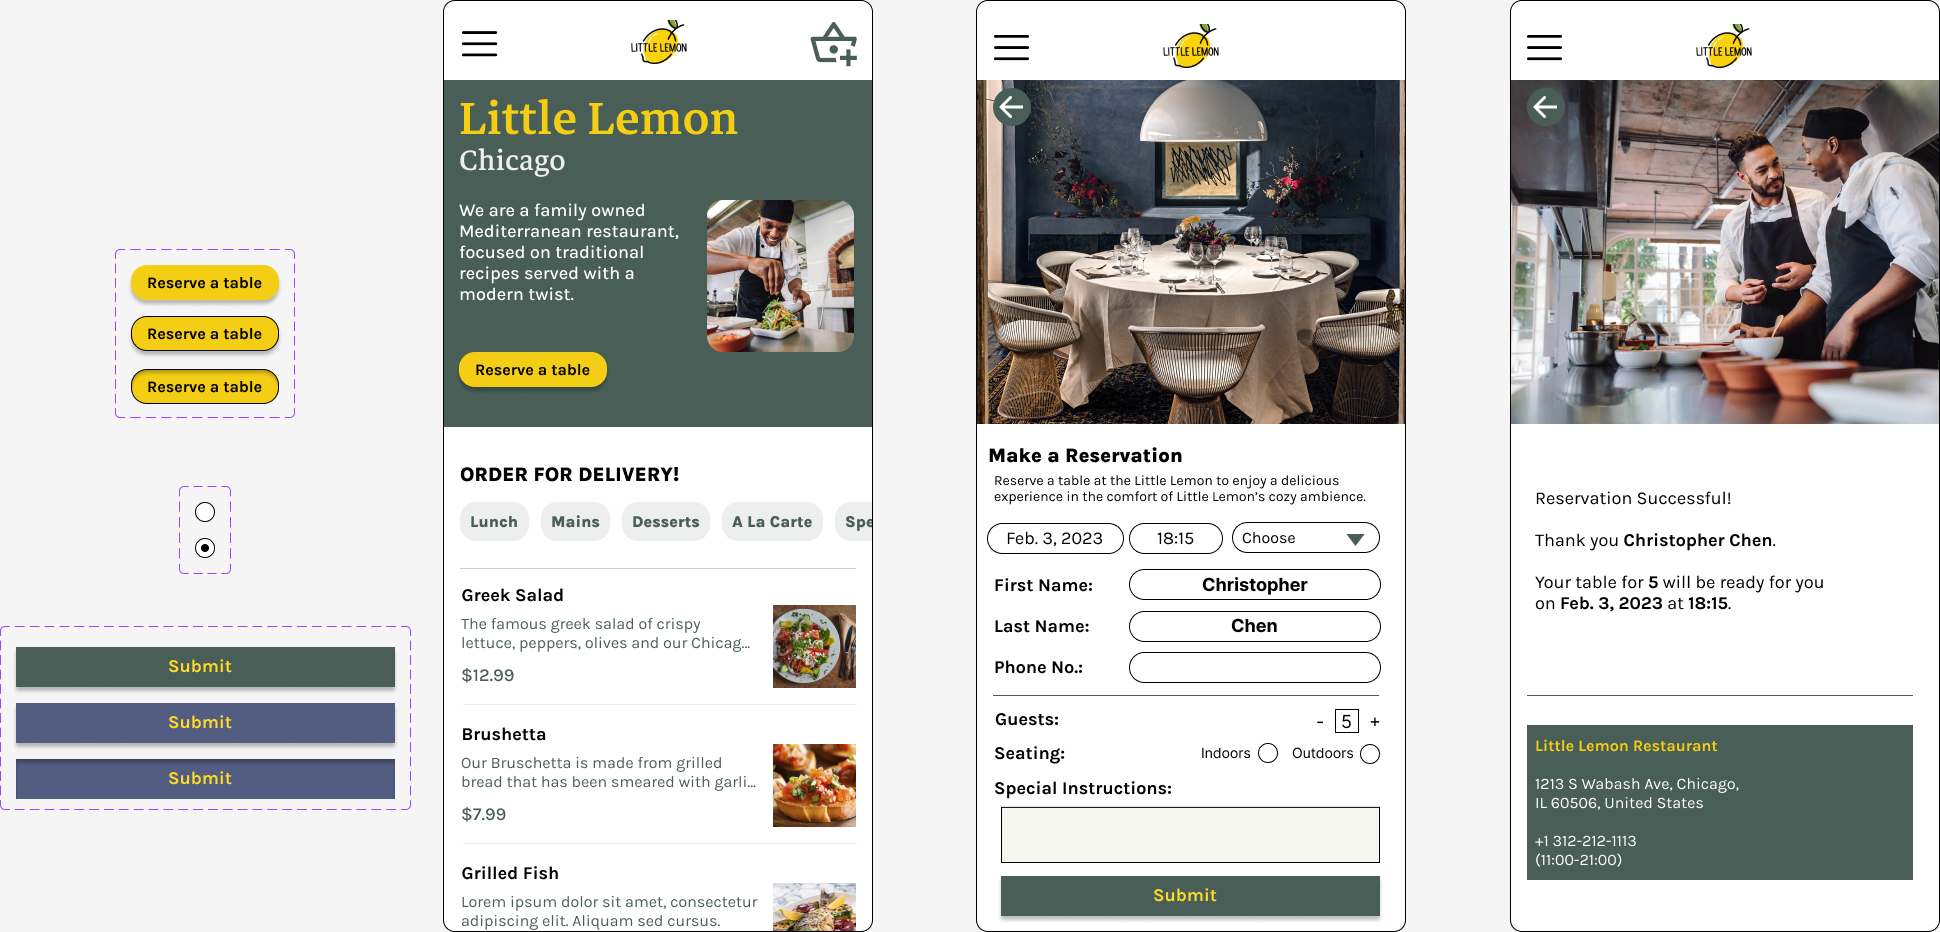
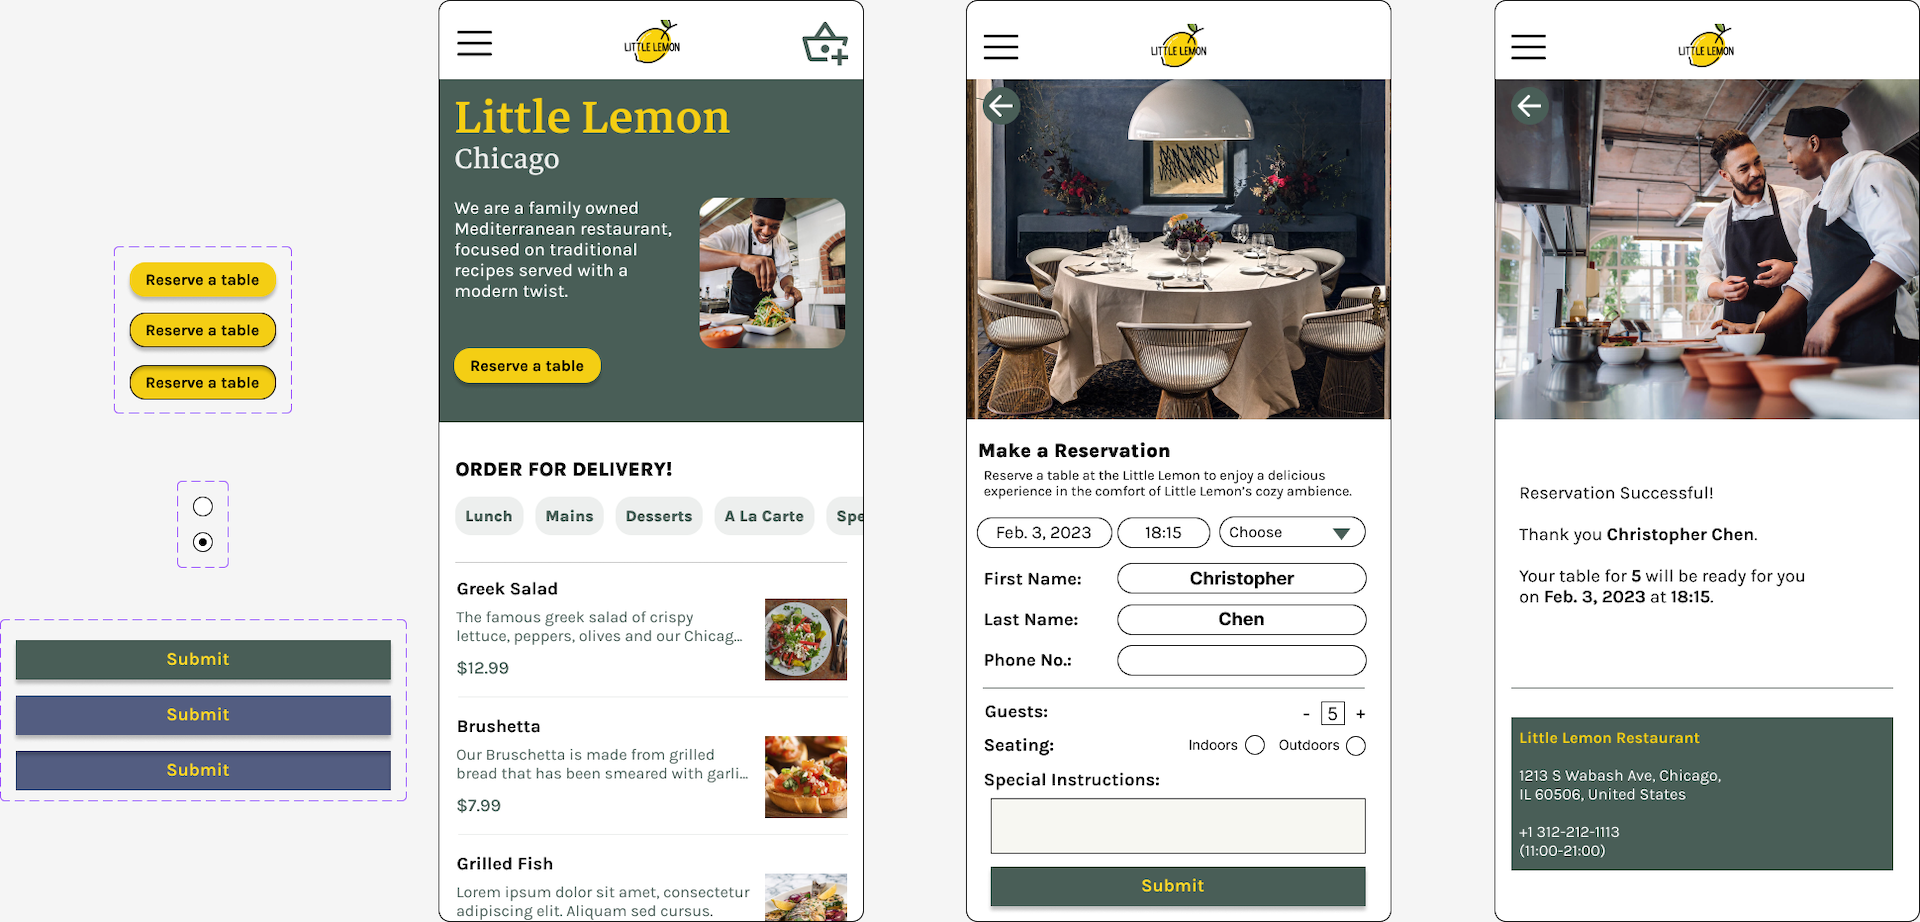
Added new project and downsized images

diff --git a/projects.html b/projects.html
@@ -78,10 +78,22 @@
   <section>
     <div class="container text-center col-xxl-8 px-5 py-4">
         <h2 class="pb-5">Projects</h2>
+
         <div class="py-3 my-3">
           <p class="number">01</p>
-          <p class="lead sub-heading"><strong>Restaurant website</strong></p>
-          <p class="small-text my-2">Front-end for restaurant with reserve-a-table feature, developed using React.js. Uses call-to-action button in the hero section to re-direct users for accessing the table-booking feature.</p>
+          <p class="lead sub-heading"><strong>Beats DIY</strong></p>
+          <p class="small-text my-2">Create your own groovy beats with this retro-style percussion instruments simulator. Click or press the buttons to generate their corresponding sounds. Play with your friends and be responsible for separate instruments.</p>
+          <div class="project-image pt-5">
+            <img src="./assets/images/beats.png" class="d-block mx-lg-auto img-fluid" alt="homepage for beat-creating website" width="600" loading="lazy">
+          </div>
+          <div class="centered-box my-5">
+            <a class="projects-text" href="https://kwisschen.github.io/beats">VIEW</a>
+          </div>
+        </div>
+        <div class="py-3 my-3">
+          <p class="number">02</p>
+          <p class="lead sub-heading"><strong>Little Lemon Restaurant</strong></p>
+          <p class="small-text my-2">Front-end for ficticious restaurant with reserve-a-table feature, developed using React.js. Uses call-to-action button in the hero section to re-direct users for accessing the table-booking feature.</p>
           <div class="project-image pt-5">
             <img src="./assets/images/lemon-home.png" class="d-block mx-lg-auto img-fluid" alt="homepage of restaurant" width="400" loading="lazy">
           </div>
@@ -90,9 +102,9 @@
           </div>
         </div>
         <div class="py-3 my-3">
-          <p class="number">02</p>
-          <p class="lead sub-heading"><strong>Mobile prototype for restaurant</strong></p>
-          <p class="small-text my-2">Prototype for restaurant app with interactions for the reserve-a-table feature, designed using Figma. Achieved after creating user personas, journey maps, and wireframes for the app.</p>
+          <p class="number">03</p>
+          <p class="lead sub-heading"><strong>Mobile prototype for Little Lemon</strong></p>
+          <p class="small-text my-2">Figma prototype for restaurant app with interactions for the reserve-a-table feature. Achieved after creating user personas, journey maps, and wireframes for the app.</p>
           <div class="project-image pt-5 mx-auto">
             <img src="./assets/images/lemon-prototype.png" class="d-block mx-lg-auto img-fluid" alt="figma prototype of restaurant" width="600" loading="lazy">
           </div>
@@ -101,20 +113,9 @@
           </div>
         </div>
         <div class="py-3 my-3">
-          <p class="number">03</p>
-          <p class="lead sub-heading"><strong>App landing page</strong></p>
-          <p class="small-text my-2">Front-end for match-making app which aims to help connect stray or unwanted cats with new owners, styled using Bootstrap. Adopts Tinder-themed gradient animation in header and footer.</p>
-          <div class="project-image pt-5">
-            <img src="./assets/images/cuddlepaws.png" class="d-block mx-lg-auto img-fluid" alt="landing page of app" width="400" loading="lazy">
-          </div>
-          <div class="centered-box my-5">
-            <a class="projects-text" href="https://kwisschen.github.io/cuddlepaws">VIEW</a>
-          </div>
-        </div>
-        <div class="py-3 my-3">
           <p class="number">04</p>
-          <p class="lead sub-heading"><strong>Auction website <small>(front-end in progress)</small></strong></p>
-          <p class="small-text my-2">Full-stack application for auction website, developed using Django. Current functions include user registration, logging in and out, following and unfollowing influencers, creating and closing auctions, filtering by category, placing bids, and leaving comments under each listing.</p>
+          <p class="lead sub-heading"><strong>Power Hour <small>(front-end in progress)</small></strong></p>
+          <p class="small-text my-2">Full-stack application for auction website, developed using Django. Currently features user registration, logging in and out, following and unfollowing influencers, creating and closing auctions, filtering by category, placing bids, and leaving comments under each listing.</p>
           <div class="project-image pt-5">
             <img src="./assets/images/power-hour-listing.png" class="d-block mx-lg-auto img-fluid" alt="landing page of app" width="500" loading="lazy">
           </div>
@@ -124,13 +125,24 @@
         </div>
         <div class="py-3 my-3">
           <p class="number">05</p>
-          <p class="lead sub-heading"><strong>Front-end component for auction website</strong></p>
-          <p class="small-text my-2">Front-end animated component to be implemented in the auction website. Features resizing, recoloring, and RGB border animations on hover.</p>
+          <p class="lead sub-heading"><strong>Front-end component for Power Hour</strong></p>
+          <p class="small-text my-2">Animated component to be implemented in the auction website. Features resizing, recoloring, and RGB border animations on hover.</p>
           <div class="project-image pt-5">
             <img src="./assets/images/power-hour-component.png" class="d-block mx-lg-auto img-fluid" alt="landing page of app" width="500" loading="lazy">
           </div>
           <div class="centered-box my-5">
             <a class="projects-text" href="https://kwisschen.github.io/power-hour-frontend/">VIEW</a>
+          </div>
+        </div>
+        <div class="py-3 my-3">
+          <p class="number">06</p>
+          <p class="lead sub-heading"><strong>Cuddlepaws</strong></p>
+          <p class="small-text my-2">Landing page for ficticious match-making app which aims to help connect stray or unwanted cats with new owners. Adopts Tinder-themed gradient animation in header and footer.</p>
+          <div class="project-image pt-5">
+            <img src="./assets/images/cuddlepaws.png" class="d-block mx-lg-auto img-fluid" alt="landing page of app" width="400" loading="lazy">
+          </div>
+          <div class="centered-box my-5">
+            <a class="projects-text" href="https://kwisschen.github.io/cuddlepaws">VIEW</a>
           </div>
         </div>
     </div>
@@ -144,7 +156,7 @@
         <div class="col-lg-8 pb-5">
           <h6>HAVE SOMETHING IN MIND?</h6>
           <h3 class="mb-4">Let's Work Together</h3>
-          <p class="small-text">The continuous integration of theory and practice is a method of learning I abide by and most recommend.
+          <p class="small-text">The continuous integration of theory and practice is a method of learning I routinely abide by and most recommend for other learners.
             Having worked among engineers throughout my entire career, building real-world applications will ever be an integral part of my pursuit of happiness.
           </p>
           <div id="contact-box" class="lets-chat-box">

diff --git a/index.html b/index.html
@@ -86,14 +86,14 @@
   <!-- Projects -->
   <section>
     <div class="container col-xxl-8 px-4 pt-2">
-      <div class="row flex-lg-row justify-content-center align-items-center g-5 pt-5">
-        <div class="col-lg-6">
+      <div class="row flex-lg-row justify-content-center align-items-center g-5 py-5">
+        <div class="col-lg-6 mb-4">
           <div id="projects-heading">
-            <h6>PREVIOUS WORK</h6>
+            <h6>LATEST WORK</h6>
             <h2>Project Samples</h2>
           </div>
         </div>
-        <div class="flex-center col-lg-6">
+        <div class="flex-center col-lg-6 mb-5">
           <div class="d-flex justify-content-end">
             <div id="all-projects" class="lets-chat-box">
               <a class="projects-text" href="./projects.html">ALL PROJECTS</a>
@@ -101,45 +101,45 @@
           </div>
         </div>
 
-        <div class="col-10 col-sm-10 col-lg-6 pt-5 pb-5 position-relative">
-          <img class="projects-left-dotted" src="./assets/images/dotted-grid.jpeg" alt="dotted-grid" height="180">
-          <img class="projects-right-dotted" src="./assets/images/dotted-grid.jpeg" alt="dotted-grid" height="180">
-          <img id="lemon-home" src="./assets/images/lemon-home.png" class="d-block mx-lg-auto img-fluid" alt="homepage of restaurant" loading="lazy">
+        <div class="col-10 col-sm-10 col-lg-6 py-5 position-relative">
+          <img class="top-dotted" src="./assets/images/dotted-grid.jpeg" alt="dotted-grid" height="150">
+          <img class="bottom-dotted" src="./assets/images/dotted-grid.jpeg" alt="dotted-grid" height="150">
+          <img id="beats-home" src="./assets/images/beats.png" class="d-block mx-lg-auto img-fluid" alt="homepage for beat-creating website" loading="lazy">
         </div>
-        <div id="first-project-text" class="col-lg-6 pt-2 pb-5">
+        <div id="first-project-text" class="col-lg-6 py-5">
           <p class="number">01</p>
+          <p class="lead sub-heading"><strong>Instruments simulator</strong></p>
+          <p class="small-text py-2">Create your own groovy beats with this retro-style percussion instruments simulator. Click or press the buttons to generate their corresponding sounds. Play with your friends and be responsible for separate instruments.</p>
+          <div class="item-box">
+            <a class="projects-text" href="https://kwisschen.github.io/beats">VIEW</a>
+          </div>
+        </div>
+
+        <div id="second-project-text" class="col-lg-6 py-5">
+          <p class="number">02</p>
           <p class="lead sub-heading"><strong>Website redesign</strong></p>
           <p class="small-text py-2">Front-end for restaurant with reserve-a-table feature, developed using React.js. Uses call-to-action button in the hero section to re-direct users for accessing the table-booking feature.</p>
           <div class="item-box">
             <a class="projects-text" href="https://github.com/kwisschen/lemon-frontend">VIEW</a>
           </div>
         </div>
-
-        <div id="second-project-text" class="col-lg-6 pt-5 pb-1 mb-0">
-          <p class="number">02</p>
-          <p class="lead sub-heading"><strong>Mobile app prototype</strong></p>
-          <p class="small-text py-2">Prototype for restaurant app with interactions for the reserve-a-table feature, designed using Figma. Achieved after creating user personas, journey maps, and wireframes for the app.</p>
-          <div class="item-box">
-            <a class="projects-text" href="https://www.figma.com/file/OOPOhrbDDLMD5gY0d3gxhC/Lemon-app-prototype?type=design&node-id=0%3A1&mode=design&t=kJt8tHwo3qOwgOk8-1">VIEW</a>
-          </div>
-        </div>
-        <div class="col-10 col-sm-8 col-lg-6 pt-5 position-relative">
-          <img class="top-dotted" src="./assets/images/dotted-grid.jpeg" alt="dotted-grid" height="150">
-          <img class="bottom-dotted" src="./assets/images/dotted-grid.jpeg" alt="dotted-grid" height="150">
-          <img id="lemon-prototype" src="./assets/images/lemon-prototype.png" class="d-block mx-lg-auto img-fluid" alt="figma prototype of restaurant" loading="lazy">
-        </div>
-
-        <div class="col-10 col-sm-8 col-lg-6 pt-0 pb-0 mt-4 mb-0 position-relative">
+        <div id="second-project-images" class="col-10 col-sm-8 col-lg-6 position-relative">
           <img class="projects-left-dotted" src="./assets/images/dotted-grid.jpeg" alt="dotted-grid" height="180">
           <img class="projects-right-dotted" src="./assets/images/dotted-grid.jpeg" alt="dotted-grid" height="180">
-          <img id="cuddlepaws" src="./assets/images/cuddlepaws.png" class="d-block mx-lg-auto img-fluid" alt="landing page of app" loading="lazy">
+          <img id="lemon-home" src="./assets/images/lemon-home.png" class="d-block mx-lg-auto img-fluid" alt="homepage of restaurant" loading="lazy">
         </div>
-        <div id="last-project-text" class="col-lg-6 pt-0 mt-0 mb-5">
+
+        <div class="col-10 col-sm-10 col-lg-6 py-5 position-relative">
+          <img class="top-dotted" src="./assets/images/dotted-grid.jpeg" alt="dotted-grid" height="150">
+          <img class="bottom-dotted" src="./assets/images/dotted-grid.jpeg" alt="dotted-grid" height="150">
+          <img id="auction-component" src="./assets/images/power-hour-component.png" class="d-block mx-lg-auto img-fluid" alt="e-commerce component" loading="lazy">
+        </div>
+        <div id="last-project-text" class="col-lg-6 py-5">
           <p class="number">03</p>
-          <p class="lead sub-heading"><strong>App landing page</strong></p>
-          <p class="small-text py-2">Front-end for match-making app which aims to help connect stray or unwanted cats with new owners, styled using Bootstrap. Adopts Tinder-themed gradient animation in header and footer.</p>
+          <p class="lead sub-heading"><strong>E-commerce component</strong></p>
+          <p class="small-text py-2">Animated component to be implemented in the auction website. Features resizing, recoloring, and RGB border animations on hover.</p>
           <div class="item-box">
-            <a class="projects-text" href="https://kwisschen.github.io/cuddlepaws">VIEW</a>
+            <a class="projects-text" href="https://kwisschen.github.io/power-hour-frontend">VIEW</a>
           </div>
         </div>
       </div>

diff --git a/styles.css b/styles.css
@@ -34,6 +34,11 @@ nav .container-fluid {
   font-weight: bold;
 }
 
+.nav-item {
+  margin-left: 0.5rem;
+  margin-right: 0.5rem;
+}
+
 .navbar-brand {
   color: #fcf8ec;
   background-color: #456268;
@@ -54,6 +59,13 @@ nav .container-fluid {
 }
 
 /* Hero section */
+#hero-container {
+  padding-left: 1rem;
+  padding-right: 1rem;
+  padding-top: 1.25rem;
+  padding-bottom: 1.25rem;
+}
+
 h1 {
   font-family: "Playfair Display", serif;
 }
@@ -306,7 +318,7 @@ hr {
 .bottom-dotted {
   position: absolute;
   left: 40%;
-  top: 80%;
+  top: 70%;
   z-index: -1;
   transform: rotate(90deg);
 }
@@ -329,32 +341,33 @@ hr {
   font-size: 0.9rem;
 }
 
+#beats-home {
+  height: 300px;
+  width: 500px;
+  transform: scale(1.1);
+  filter: grayscale(0.2);
+}
+
+#auction-component {
+  width: 500px;
+  filter: grayscale(0.3);
+}
+
 #lemon-home {
   width: 400px;
-  filter: grayscale(0.4);
-}
-
-#lemon-prototype {
-  width: 500px;
-  transform: scale(1.2);
-  filter: grayscale(0.4);
-}
-
-#cuddlepaws {
-  width: 500px;
-  transform: scale(0.7);
   filter: grayscale(0.3);
 }
 
 /* Skills section */
 #skillset {
   width: 100%;
-  margin: 0 auto;
   background-color: #d0e8f2;
   display: flex;
   flex-direction: column;
   justify-content: center;
   align-items: center;
+  /* margin: 0 auto; */
+  margin-top: 2rem;
 }
 
 #learning {
@@ -614,11 +627,14 @@ ul li p img {
 
 /* All media queries */
 @media (max-width: 992px) {
-  #lemon-home {
-    flex-direction: column;
-    justify-content: center;
-    align-items: center;
-    margin: auto;
+  .top-dotted {
+    visibility: hidden;
+  }
+  .bottom-dotted {
+    visibility: hidden;
+  }
+  #second-project-images {
+    transform: translateY(-25%);
   }
   #lemon-prototype {
     padding: 10px;
@@ -650,13 +666,13 @@ ul li p img {
     margin: auto;
   }
   #first-project-text {
-    transform: translateY(-3rem);
+    transform: translateY(-5rem);
   }
   #second-project-text {
     transform: translateY(-5rem);
   }
   #last-project-text {
-    transform: translateY(-3rem);
+    transform: translateY(-5rem);
   }
   .top-dotted {
     position: absolute;
